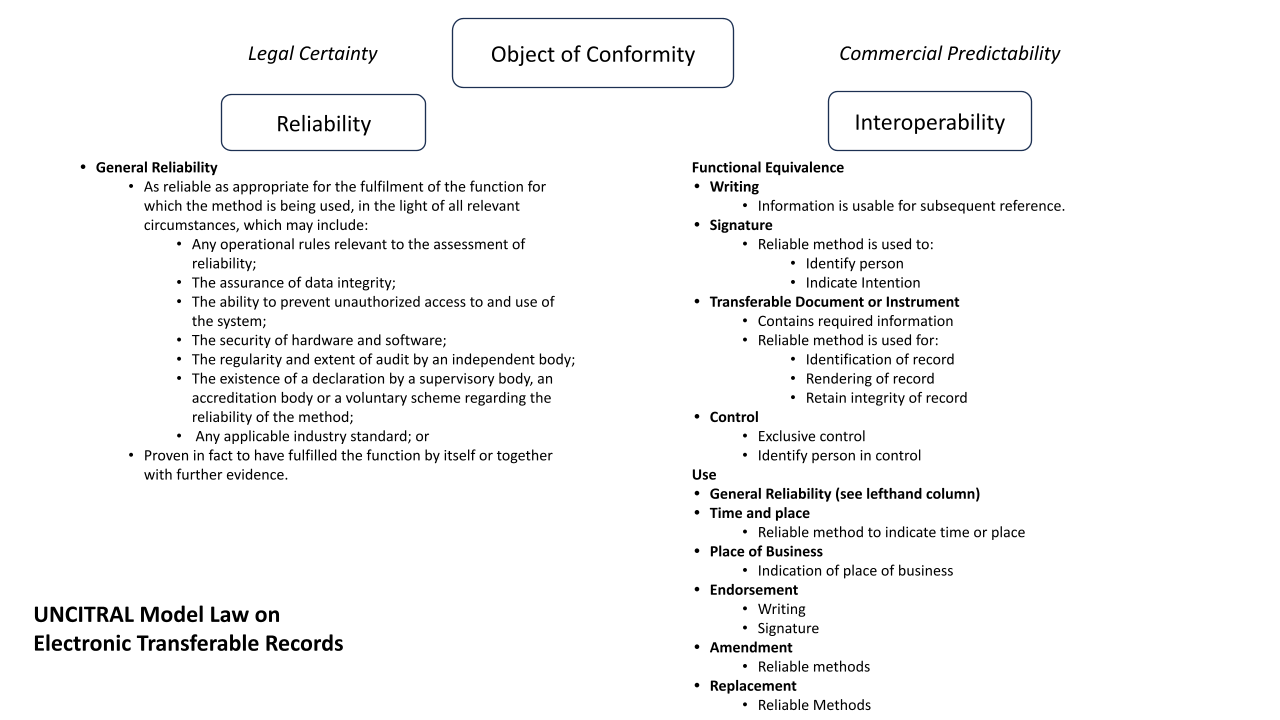
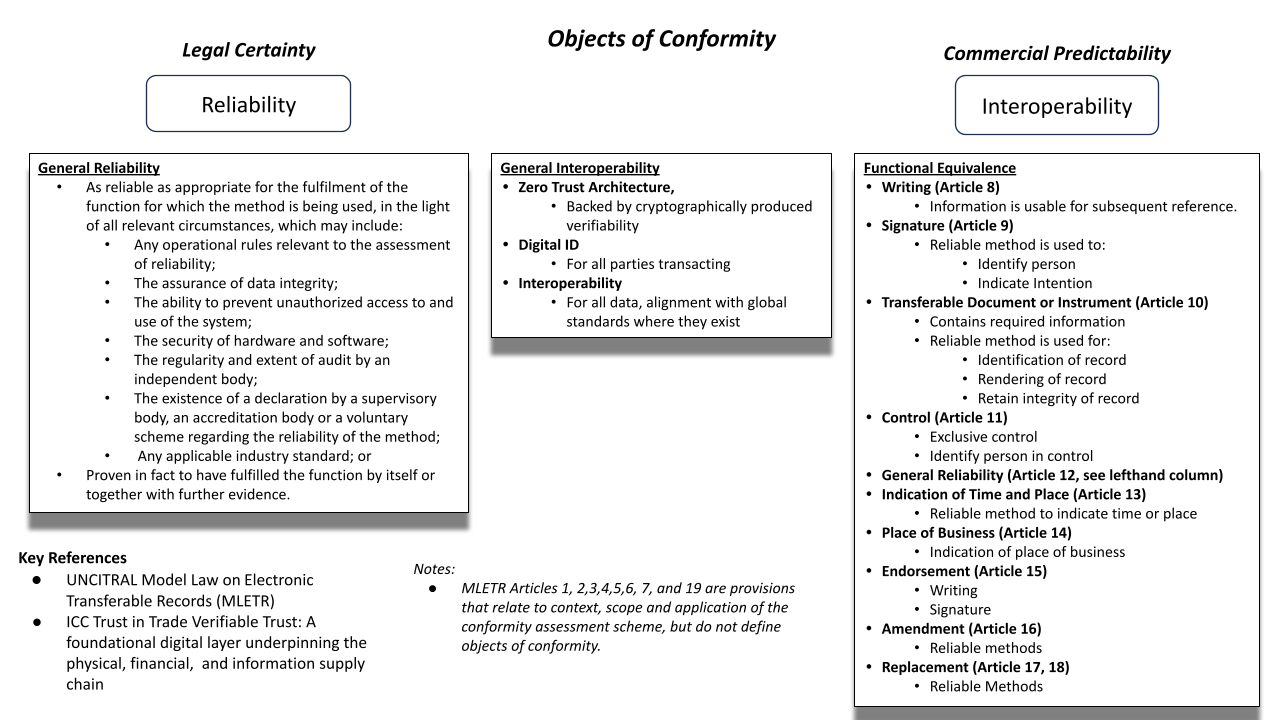
edits

Changed region(s): [[0.0, 0.0611, 1.0, 1.0], [0.375, 0.0, 0.625, 0.0917], [0.3438, 0.0917, 0.375, 0.1222]]

diff --git a/scheme/objects/obj-overview.md b/scheme/objects/obj-overview.md
@@ -1,10 +1,31 @@
-# Object of Conformity Overview
+# Overview
 
 ## Conformance with Model Law on Electronic Transferable Records
 
+The scheme is organized to effect the achievement two strategic outcomes: **Legal Certaintiy** and **Commercial Predictability**
+These strategic outcomes are underpinned by two broad characteristics: **Reliability** and **Interoperabilty** , which can be assessed in three areas:
+
+* **General Reliability** as reliable as appropriate for the fulfilment of the function for which the method is being used.
+* **General Interoperability** interoperabilty as appropriate for ease of transferabilty through various ecosystems.
+* **Functional Equivalence** the production of same outcomes or results despite variations in methods.
+
+
 ![Diagram](obj-conformity.png)
 
+## Authoritiative Documents
+
+* [MLETR](/docs/mletr_ebook_e.pdf)
+* [Trust In Trade](/docs/20230324-ICC-DSI%20TTE-vF.pdf)
+
 ## Conformance Coverage
+
+### General Reliability
+
+| Article Number | Description                                         |Conformance|
+|----------------|-----------------------------------------------------|---|
+| Article 12     | General Reliability|Applies|
+
+### Functional Equivalence
 
 | Article Number | Description                                         |Conformance|
 |----------------|-----------------------------------------------------|---|
@@ -15,7 +36,7 @@
 | Article 5     | Information Requirements|
 | Article 6     | Additional information in electronic transferable records|
 | Article 7     | Legal recognition of an electronic transferable record|
-| Article 8     | Writing|[Applies](./writing.md)|
+| Article 8     | Writing|[Profile](./writing.md)|
 | Article 9     | Signature|Applies|
 | Article 10    | Transferable documents or instruments|Applies|
 | Article 11    | Control|Applies|
@@ -27,4 +48,12 @@
 | Article 17    | Replacement of an electronic transferable record with an electronic transferable record|Applies|
 | Article 18    | Replacement of an electronic transferable record with a transferable document or instrument|Applies|
 | Article 19    | Non-discrimination of foreign electronic transferable records|
+
+### General Interoperability
+
+| Concept | Description                                         |Conformance|
+|----------------|-----------------------------------------------------|---|
+|Zero Trust    |A strategic approach to cybersecurity that secures an organisation by eliminating implicit trust and continuously validating every stage of a digital interaction. |Applies|
+|Digital ID|information used by computer systems to represent an external agent – a person, organisation, application,or device.  |Applies|
+|Interoperabilty|alignment with global standards wherethey exist |Applies|
 

diff --git a/scheme/objects/writing.md b/scheme/objects/writing.md
@@ -1,4 +1,10 @@
-# Writing
+# Article 8" Writing
+
+## Overview
+
+Article 8 outlines the criteria to ensure that information in or linked to electronic transferable records is equivalent to its written form. This concept is drawn from article 6, paragraph 1, of the UNCITRAL Model Law on Electronic Commerce. Instead of focusing on "communication," Article 8 emphasizes "information" since not all pertinent details might be conveyed, based on the chosen electronic transferable records system.
+
+Article 8 provides a rule establishing that the term "writing" in the context of electronic transferable records maintains its essence and functionality. This notion of writing plays a crucial role in various actions throughout an electronic transferable record's lifespan, such as endorsement. Rules that equate electronic and written forms in electronic transaction laws pertain to all electronic records that aren't designated as transferable.
 
 ## Provision on Functional Equivalence
 
